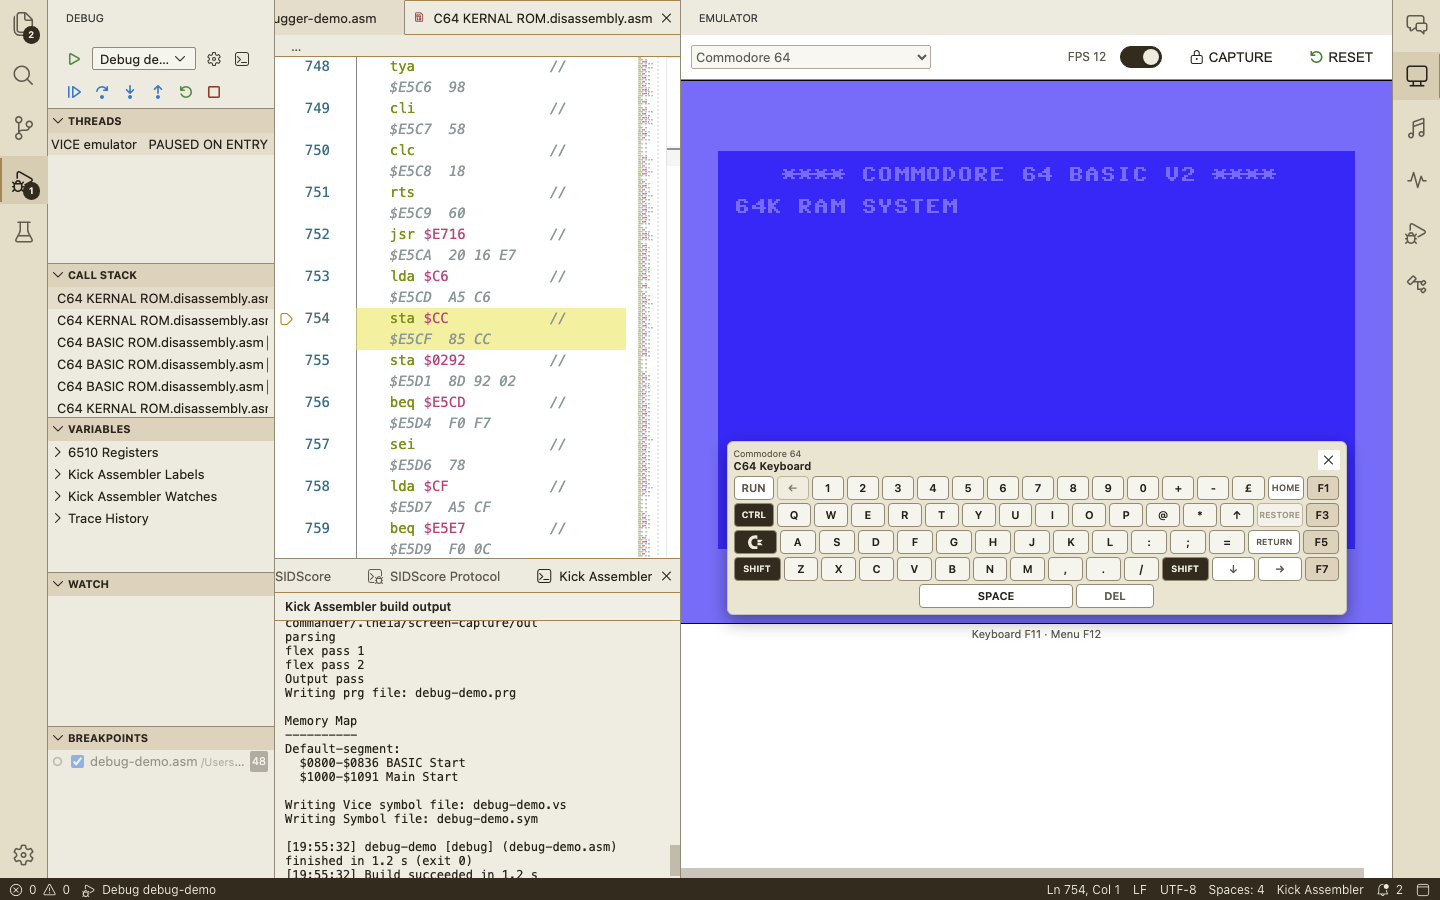
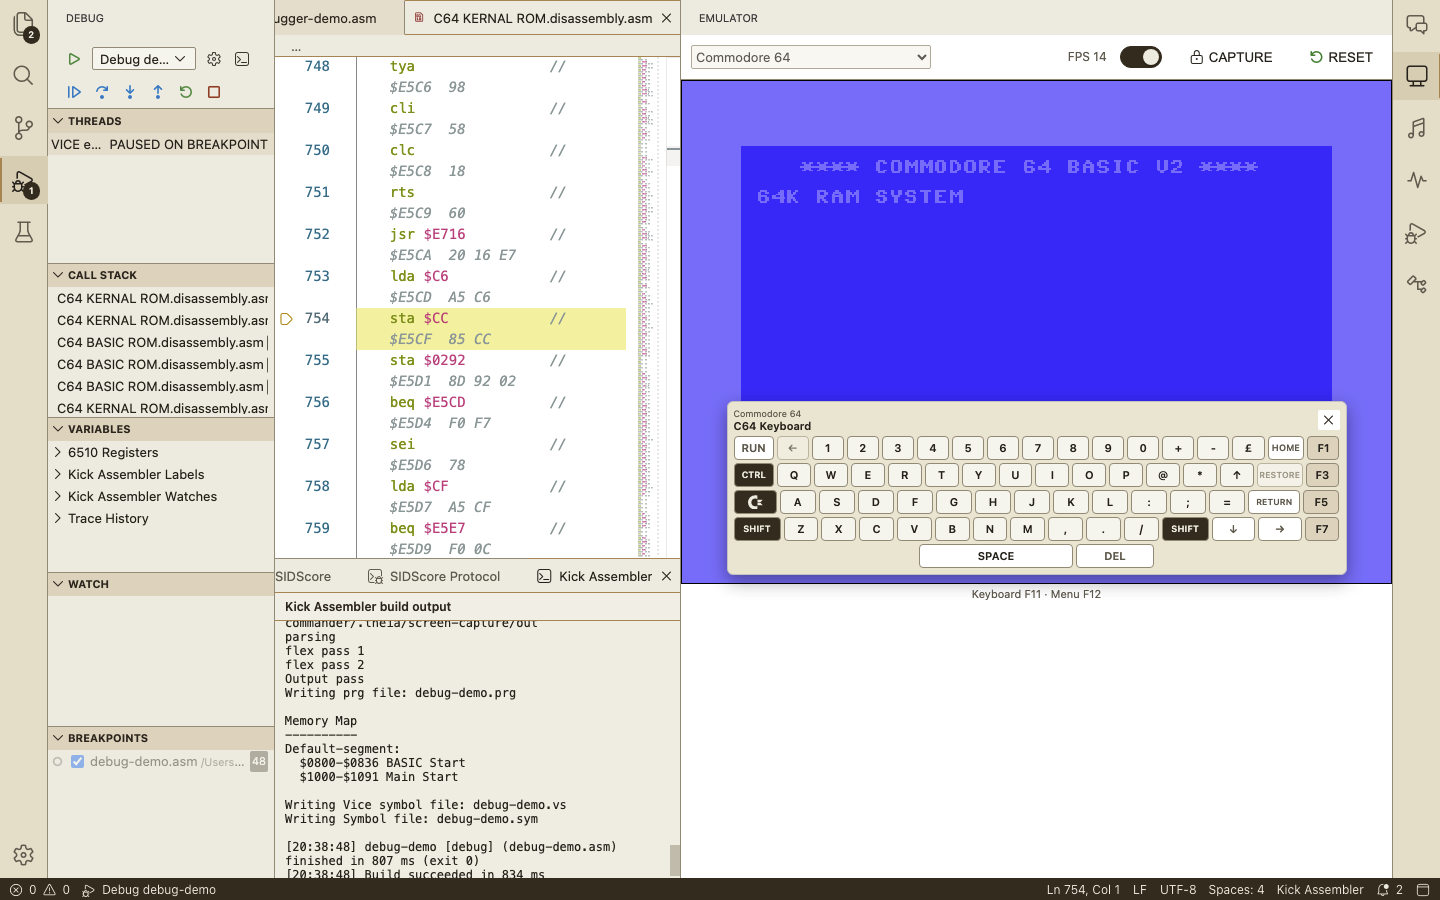
Allow VICE canvas downscaling (#64)

diff --git a/packages/theia-extension/src/test/vice-canvas-scaling.test.ts b/packages/theia-extension/src/test/vice-canvas-scaling.test.ts
@@ -5,13 +5,13 @@ import {
   calculateViceCanvasDisplaySize
 } from '../browser/vice-canvas-scaling';
 
-test('VICE canvas scaling keeps narrow 80-column frames at native size', () => {
+test('VICE canvas scaling downscales frames wider than the machine view', () => {
   assert.deepEqual(
     calculateViceCanvasDisplaySize(640, 250, 614, 460),
     {
-      width: 640,
-      height: 250,
-      scale: 1
+      width: 614,
+      height: 240,
+      scale: 614 / 640
     }
   );
 });
@@ -45,6 +45,17 @@ test('VICE canvas scaling fits small native frames when height is constrained', 
       width: 541,
       height: 409,
       scale: 409 / 266
+    }
+  );
+});
+
+test('VICE canvas scaling keeps a visible size in very small machine views', () => {
+  assert.deepEqual(
+    calculateViceCanvasDisplaySize(640, 250, 1, 1),
+    {
+      width: 1,
+      height: 1,
+      scale: 1 / 640
     }
   );
 });

diff --git a/packages/theia-extension/src/browser/vice-canvas-scaling.ts b/packages/theia-extension/src/browser/vice-canvas-scaling.ts
@@ -23,11 +23,11 @@ export function calculateViceCanvasDisplaySize(
     availableWidth / frameWidth,
     availableHeight / frameHeight
   );
-  const scale = Math.max(1, fitScale);
+  const scale = fitScale;
 
   return {
-    width: Math.round(frameWidth * scale),
-    height: Math.round(frameHeight * scale),
+    width: Math.max(1, Math.round(frameWidth * scale)),
+    height: Math.max(1, Math.round(frameHeight * scale)),
     scale
   };
 }

diff --git a/bundled-docs/keyboard-mapping.md b/bundled-docs/keyboard-mapping.md
@@ -8,6 +8,8 @@ currently supporting: C64, C64DTV, C128, VIC-20, Plus/4, C16, PET, CBM-II, and
 CBM 5x0 profiles all expose a Commodore keyboard layout. Some of the detailed
 translation rules below are C64-family specific because VICE exposes compatible
 SDL/key-matrix behavior for those machines.
+The embedded keyboard mapper is not a C64-only tool; it follows the active
+Commodore machine profile where the profile exposes enough keyboard detail.
 
 This matters on non-US layouts. On a Nordic ISO Mac keyboard, for example,
 Shift+0 produces `=`, so the embedded emulator receives the Commodore `=` key.
